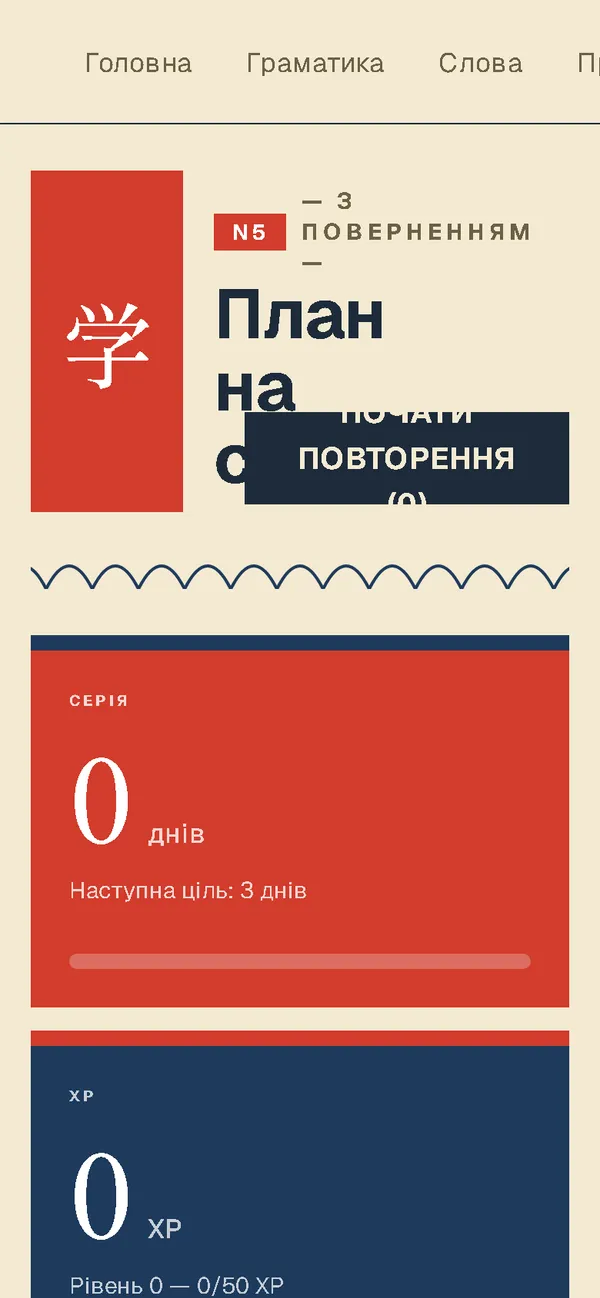
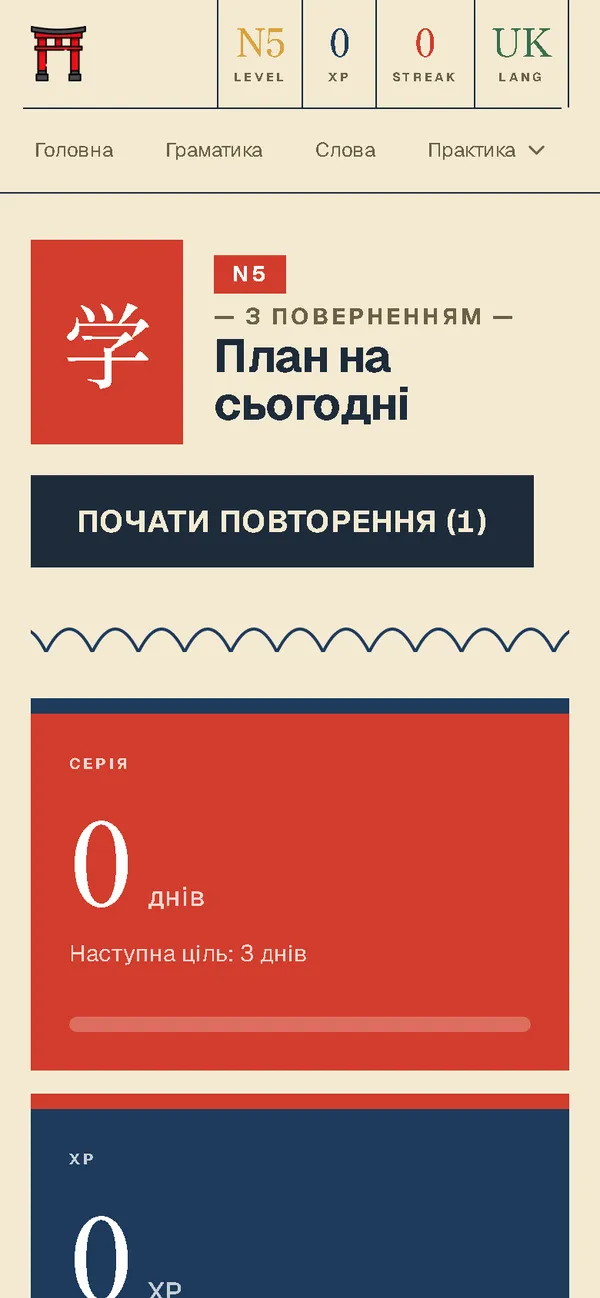
Nihongo: новий мобільний скриншот

diff --git a/index.html b/index.html
@@ -300,7 +300,7 @@ dialog img{max-height:94vh;width:auto;border-radius:10px;cursor:zoom-out}
   <div class="shelf" id="shelf" tabindex="0" aria-label="Скриншоти Nihongo SRS">
     <figure><div class="shot"><img src="img/jp-kanji.webp" alt="Сітка кандзі рівня N5" width="1400" height="875" loading="lazy"></div><figcaption>103 кандзі рівня N5 з перекладом</figcaption></figure>
     <figure><div class="shot"><img src="img/jp-kanji-detail.webp" alt="Картка кандзі 私 з читаннями он і кун" width="1400" height="875" loading="lazy"></div><figcaption>Картка кандзі: читання, поєднання, радикали, мнемоніка</figcaption></figure>
-    <figure class="tall"><div class="shot"><img src="img/jp-mobile.webp" alt="Головна сторінка на телефоні" width="600" height="1298" loading="lazy"></div><figcaption>Мобільна версія</figcaption></figure>
+    <figure class="tall"><div class="shot"><img src="img/jp-mobile.webp?v=2" alt="Головна сторінка на телефоні" width="600" height="1298" loading="lazy"></div><figcaption>Мобільна версія</figcaption></figure>
     <figure><div class="shot"><img src="img/jp-grammar.webp" alt="Розділи граматики за уроками Genki" width="1400" height="875" loading="lazy"></div><figcaption>Граматика за уроками Genki 1 і 2</figcaption></figure>
     <figure><div class="shot"><img src="img/jp-vocab.webp" alt="Словник за рівнями JLPT" width="1400" height="875" loading="lazy"></div><figcaption>Словник: слово в чергу вивчення одним кліком</figcaption></figure>
   </div>
